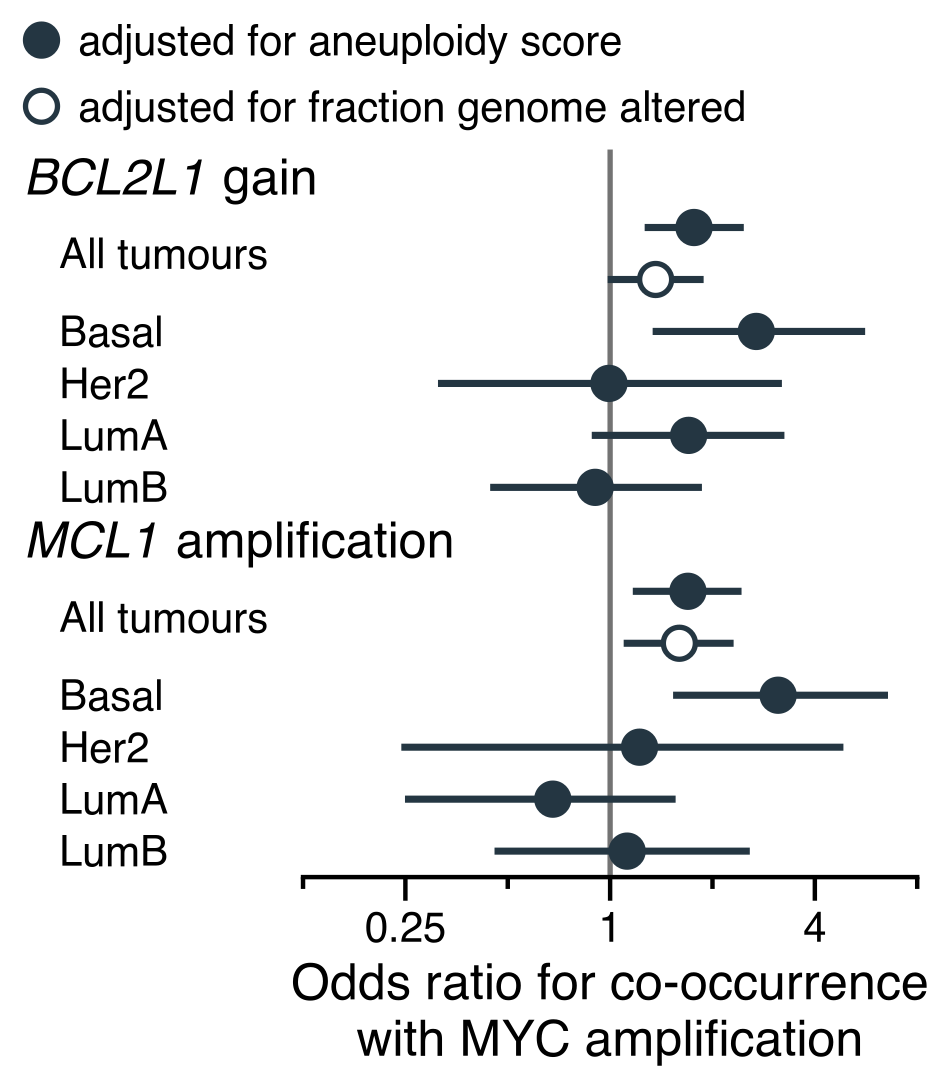
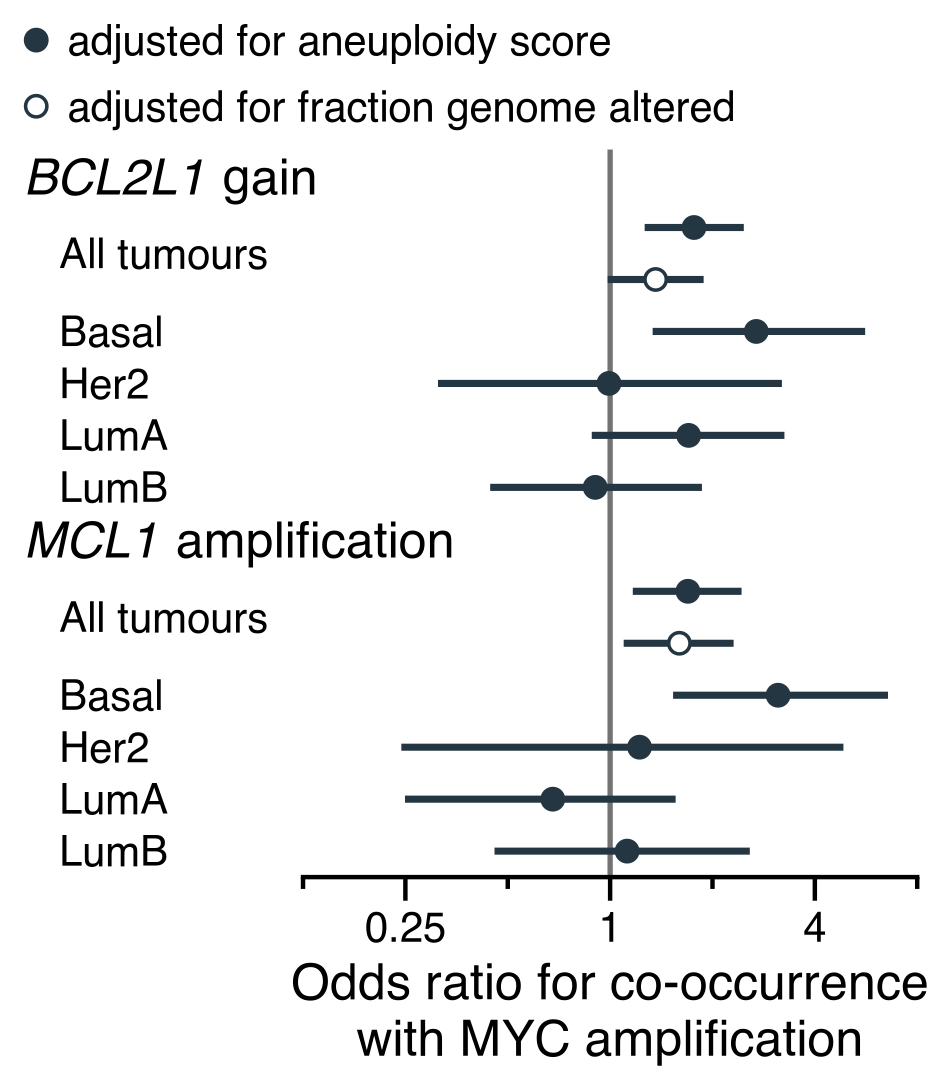
E54 result, second run: verified, 7 of 7 digests, 28 of 28 assertions; Fig. 4x's figures
The author's second run (built 22:58:39 GMT, after the digests were
committed at 22:52:42 in 4b22f97) matches the amended record in every
element and file, the circles measured at 1.05 mm. Its figures replace
the first version's; git keeps those at ec9b590.

diff --git a/docs/2026-11-05_e54_result.md b/docs/2026-11-05_e54_result.md
@@ -1,10 +1,10 @@
 ---
 date: 2026-11-05
 status: >
-  E54 RUN by the author and VERIFIED against the digests and checksums
-  committed before the run (d290bc3). Then amended on one point, the circles'
-  size, by the author's ruling (6550011), which takes a second run. This note
-  records the first run; the second is added when it is made.
+  E54 RUN twice by the author and VERIFIED both times against digests and
+  checksums committed before each run: the first version (d290bc3), then,
+  after the author's point-size ruling (6550011), the second (4b22f97). The
+  second version is Fig. 4x.
 relates-to:
   - docs/2026-11-05_E54_coamplification_panel_ruling.md (8fde82a, the specification; it amends decision 5)
   - docs/2026-11-05_E54_point_size_ruling.md (6550011, the amendment: smaller circles)
@@ -35,10 +35,23 @@ relates-to:
 - they become 1.05 mm across, in place of 1.6 mm;
 - nothing else changes.
 
-**So E54 is changed and run again.** Its new digests are committed before the second run, in the pre-run note.
+**So E54 was changed and run again.** Its new digests were committed before the second run, in the amended pre-run note (`4b22f97`).
 
-**The second run writes to the same file names.** Its figures replace these in `docs/figures`, and git keeps the first version.
+## 3. The second run: verified
 
-## 3. What the panel shows
+| what | result |
+|---|---|
+| the run | built 2026-11-05 22:58:39 GMT, after the digests were committed at 22:52:42 (`4b22f97`); R 4.6.1 |
+| saved elements, by digest (`run_info` excluded) | **7 of 7 match** |
+| assertions | **28 of 28 pass**, among them the circles measured in the PDF at 1.05 mm |
+| the PNG, in both folders | **identical to the dry run**, byte for byte |
+| the PDF, in both folders | **identical to the dry run**, timestamps zeroed; the file is complete (`%%EOF`) |
+| `E54_odds_ratios.csv`, `E54_assertions.csv` | **match** |
 
-**The pre-run note gives the table** (section 1) and what the text ruling must weigh (section 6). The second run changes no number.
+**Its figures replace the first version's** in `docs/figures` (`2026-11-05_E54_myc_coamplification_odds_ratios.{pdf,png}`). Git keeps the first version at `ec9b590`. **The second version is Fig. 4x.**
+
+## 4. What the panel shows, and what follows
+
+**The pre-run note gives the table** (section 1) and what the text ruling must weigh (section 6). The second run changed no number.
+
+**The text ruling follows:** the author's sentence, against the pre-run note's section 6; the legend; and the panel's letter.

diff --git a/CLAUDE.md b/CLAUDE.md
@@ -73,13 +73,12 @@ strata and Breslow-Day tests were declared secondary and exploratory.**
 
 ## Current phase
 
-**NEWEST, 2026-11-05, night: `E54`'s first run is VERIFIED** (7 of 7
-digests, 26 of 26 assertions; `docs/2026-11-05_e54_result.md`, `ec9b590`).
-**The author then made its circles smaller** (1.05 mm across, from 1.6 mm;
-`docs/2026-11-05_E54_point_size_ruling.md`, `6550011`). **The second version
-is written and its digests committed; the author's second run is next.** The
-entry point is the amended pre-run note,
-`docs/2026-11-05_e54_prerun_digests.md`.
+**NEWEST, 2026-11-05, night: `E54` is RUN and VERIFIED, twice** (first
+version 7 of 7 digests, 26 of 26 assertions; then, after the author made the
+circles smaller, `6550011`, the second version 7 of 7 and 28 of 28;
+`docs/2026-11-05_e54_result.md`). **The second version is Fig. 4x.** Its
+tracked figures are
+`docs/figures/2026-11-05_E54_myc_coamplification_odds_ratios.{pdf,png}`.
 - **Decision 5 is amended** (the author's ruling,
   `docs/2026-11-05_E54_coamplification_panel_ruling.md`, `8fde82a`): the
   co-amplification result (validation study G2) becomes a MAIN panel,
@@ -782,8 +781,8 @@ number is `E55`.**
   panels replace E48's ED-a and ED-b for the paper.
 - `E54` is a display script. It draws Fig. 4x, the validation study's G2
   co-amplification odds ratios, from the snapshot in
-  `data/from_validation_g2/`. Its first run is verified; the author then made
-  its circles smaller, and its second run is next.
+  `data/from_validation_g2/`. It is run and verified twice; the second
+  version, with smaller circles, is Fig. 4x.
 
 **`E31` is the only analysis still off `main`. No phase is open.**
 
